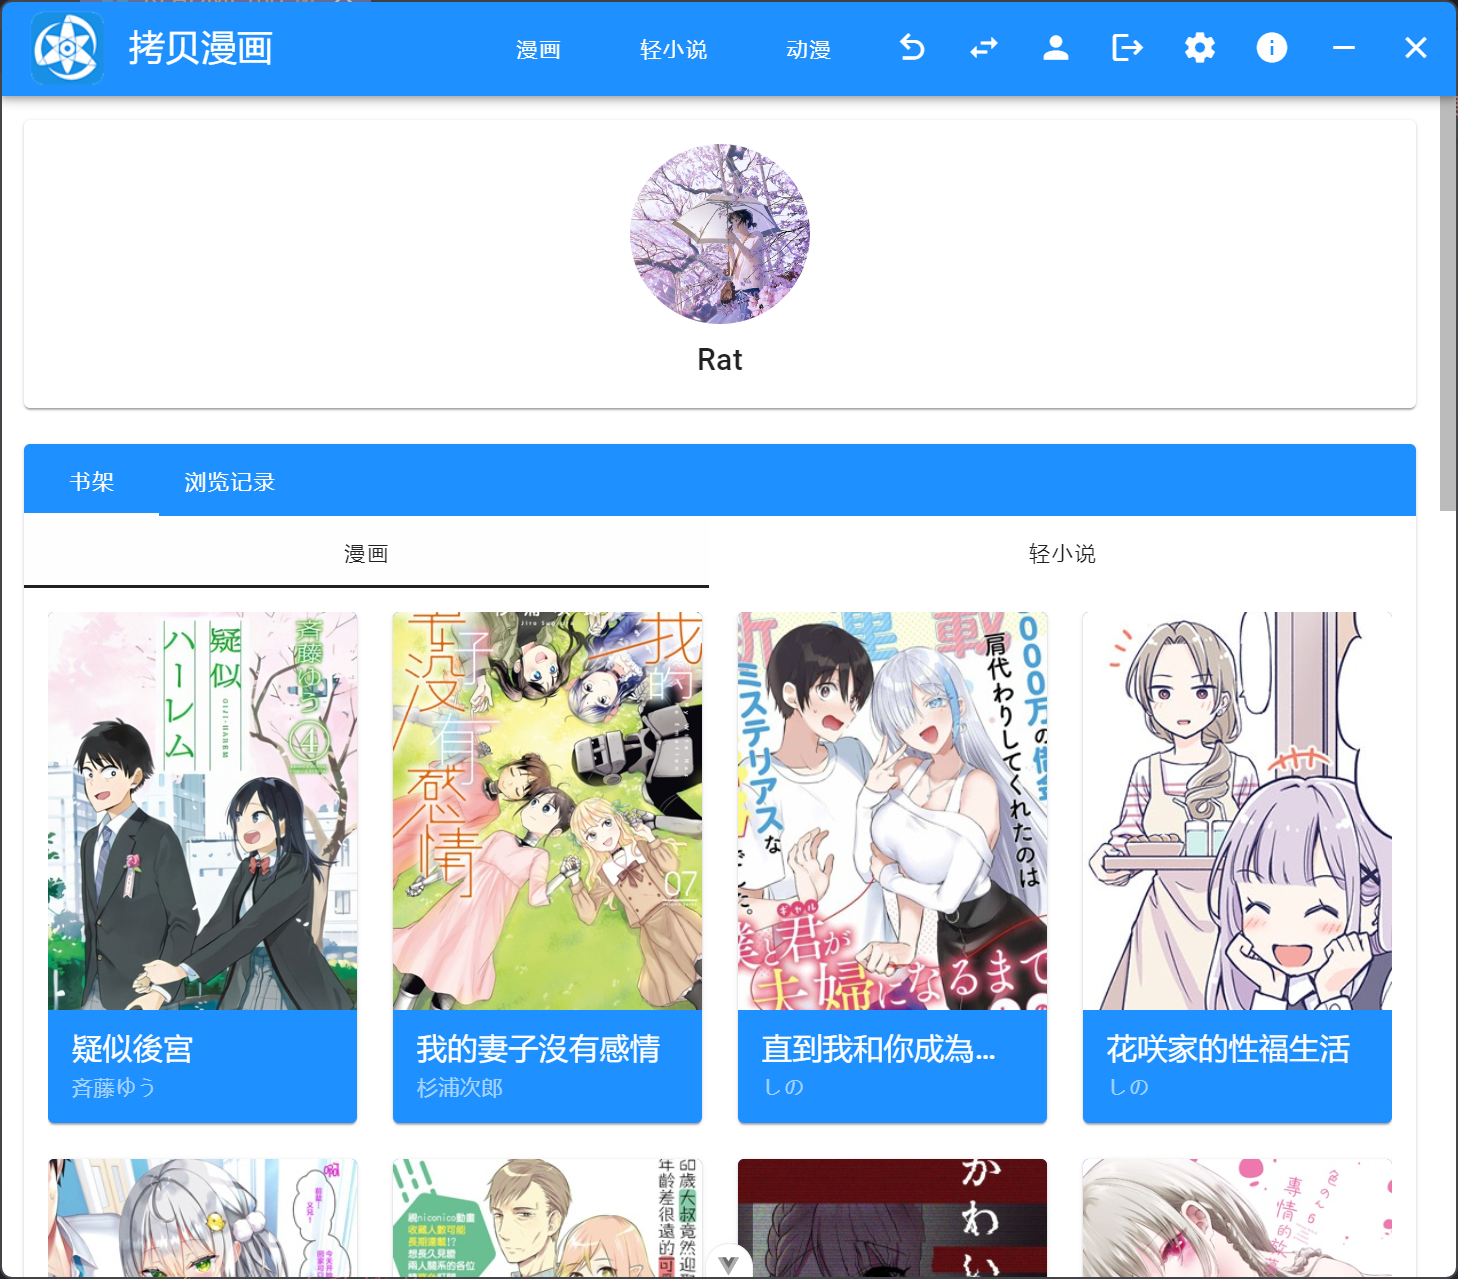
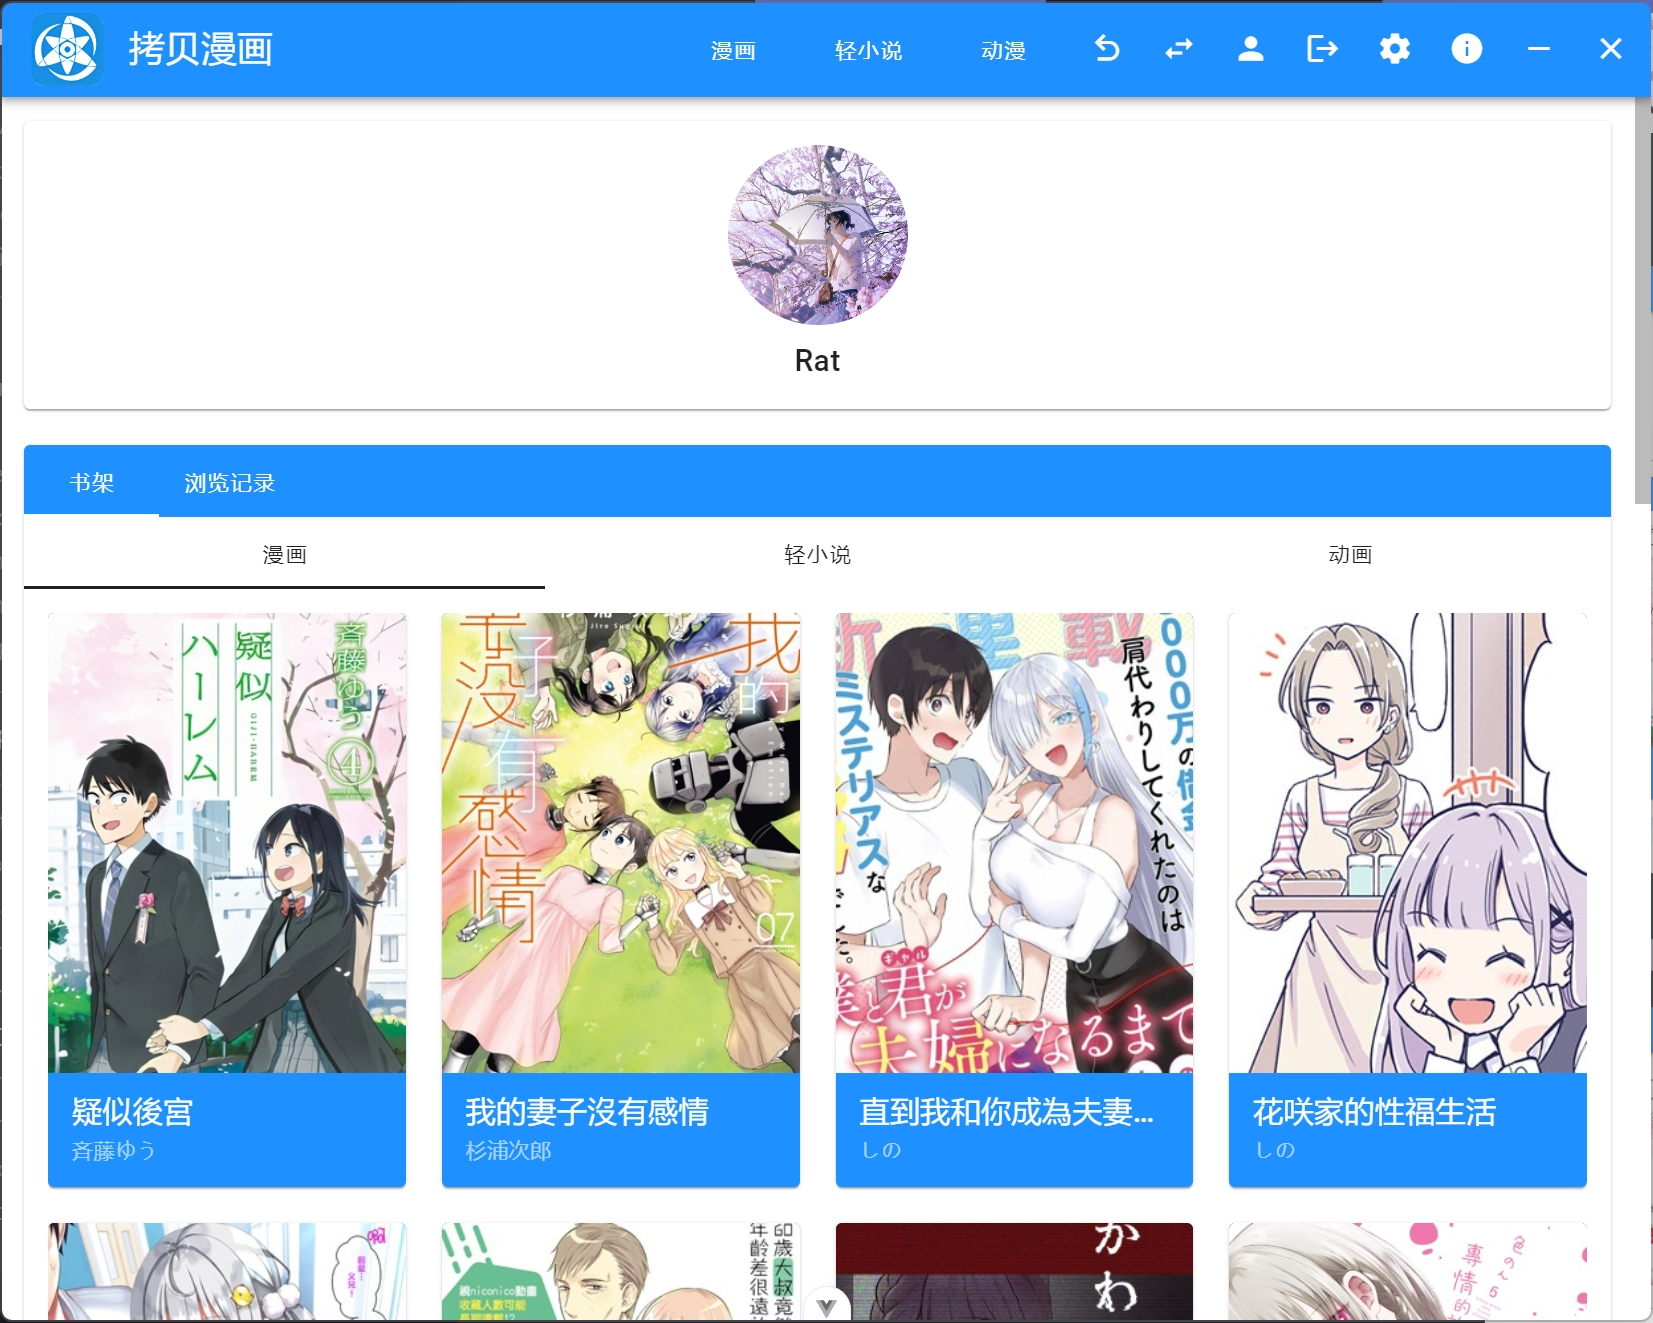
chore: 更新 README

diff --git a/README.md b/README.md
@@ -12,22 +12,37 @@
 - [x] 日夜间模式
 - [x] 简易用户信息
 - [x] 自动登录
-- [ ] 阅读历史
+- [x] 历史记录
+
 - [ ] 漫画模块
+  - [ ] 发表评论
+  - [ ] 下载
   - [x] 搜索
   - [x] 阅读
-  - [x] 加入书架
-  - [x] 漫画详情
-  - [x] 漫画评论
-  - [ ] 发表评论
+  - [x] 收藏
+  - [x] 详情
+  - [x] 查看评论
   - [x] 首页推荐
   - [x] 目录阅读
-  - [ ] 漫画下载
-  - [x] 漫画分类
+  - [x] 分类
+
 - [ ] 轻小说模块
-  - [ ] 待实现中...
+  - [ ] 发表评论
+  - [ ] 阅读
+  - [x] 搜索
+  - [x] 详情
+  - [x] 收藏
+  - [x] 分类
+  - [x] 查看评论
+
 - [ ] 动漫模块
-  - [ ] 待实现中...
+  - [x] 推荐
+  - [x] 搜索
+  - [x] 详情
+  - [x] 收藏
+  - [x] 分类
+  - [x] 查看评论
+  - [x] 观看
 
 ## 截图
 
@@ -62,7 +77,7 @@
 
 ## 安装包
 
-目前还在开发阶段，请自行构建
+目前还在开发阶段，请自行构建。
 
 ~~只提供 win 、 linux 的 x86 绿色包，所有数据只在解压的目录中，整体文件夹可随意拷贝移动（下载路径除外）。mac 用户请使用源码自行构建。~~
 
